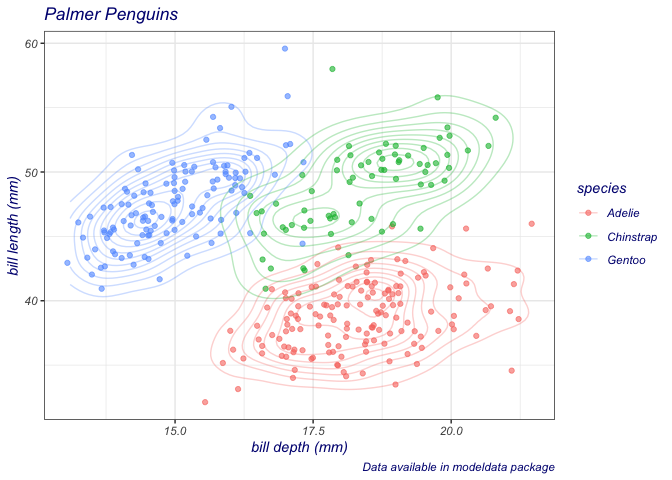
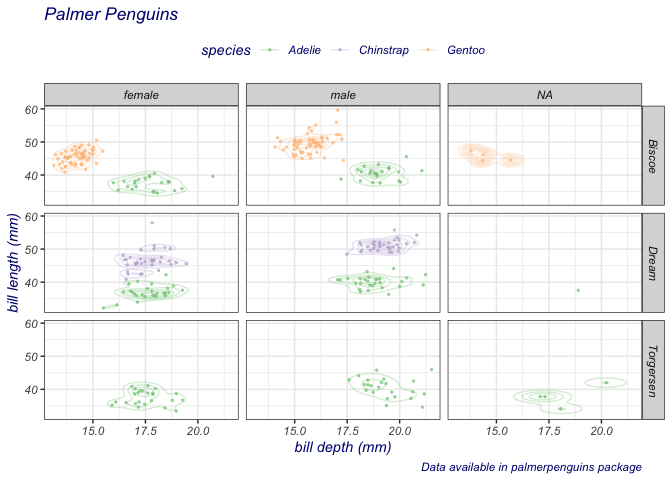
add more features to README example

diff --git a/README.md b/README.md
@@ -44,19 +44,27 @@ ggformula.
 
 ``` r
 suppressPackageStartupMessages(library(ggformula))
-data(penguins, package = "modeldata")
+data(penguins, package = "palmerpenguins")
 penguins %>% 
-  gf_jitter(bill_length_mm ~ bill_depth_mm, color = ~ species,
-          width = 0.05, height = 0.05, alpha = 0.6) %>%
+  set_variable_labels(
+    bill_length_mm = "bill length (mm)",
+    bill_depth_mm = "bill depth (mm)"
+  ) %>%
+  gf_jitter(bill_length_mm ~ bill_depth_mm | island ~ sex, color = ~ species,
+          width = 0.05, height = 0.05, size = 0.5, alpha = 0.6) %>%
   gf_density2d(alpha = 0.3) %>%
   gf_labs(title = "Palmer Penguins",
-          caption = "Data available in modeldata package",
-          y = "bill length (mm)",
-          x = "bill depth (mm)"
+          caption = "Data available in palmerpenguins package"
   ) %>%
+  gf_refine(scale_color_brewer(type = "qual")) %>%
   gf_theme(theme_bw()) %>%
-  gf_theme(text = element_text(colour = "navy", face = "italic"))
+  gf_theme(
+    legend.position = 'top',
+    text = element_text(colour = "navy", face = "italic")
+  )
 #> Warning: Removed 2 rows containing non-finite values (stat_density2d).
+#> Warning: Computation failed in `stat_density2d()`:
+#> missing value where TRUE/FALSE needed
 #> Warning: Removed 2 rows containing missing values (geom_point).
 ```
 
